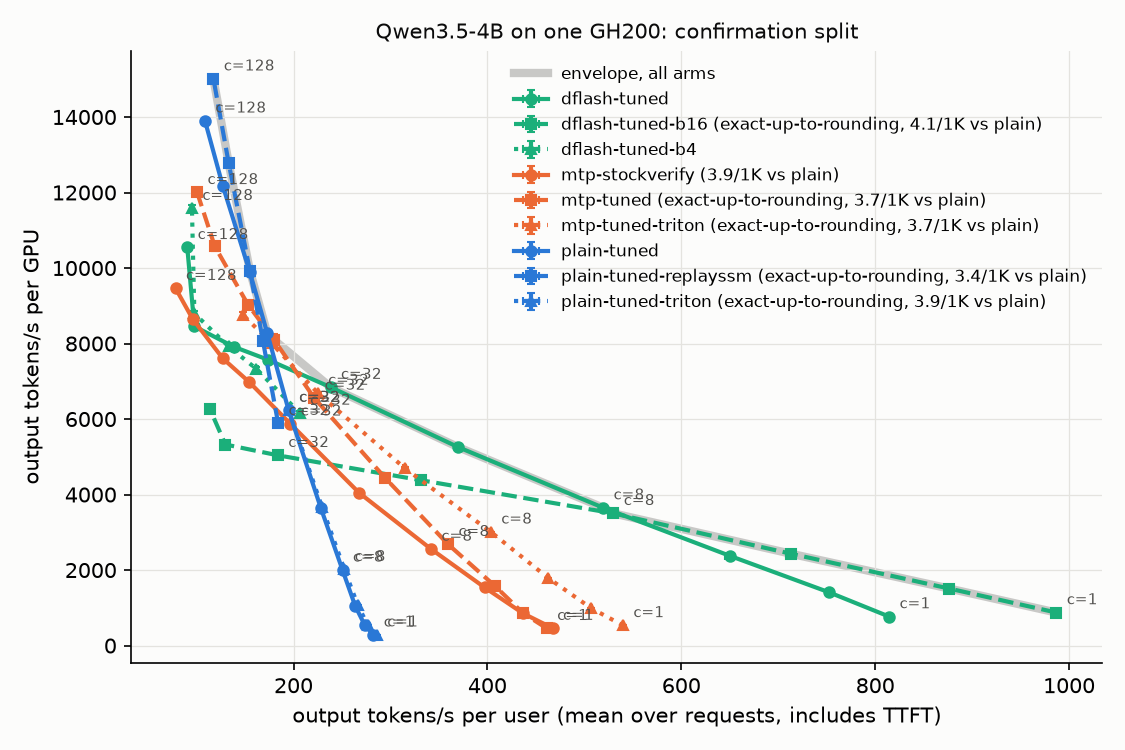
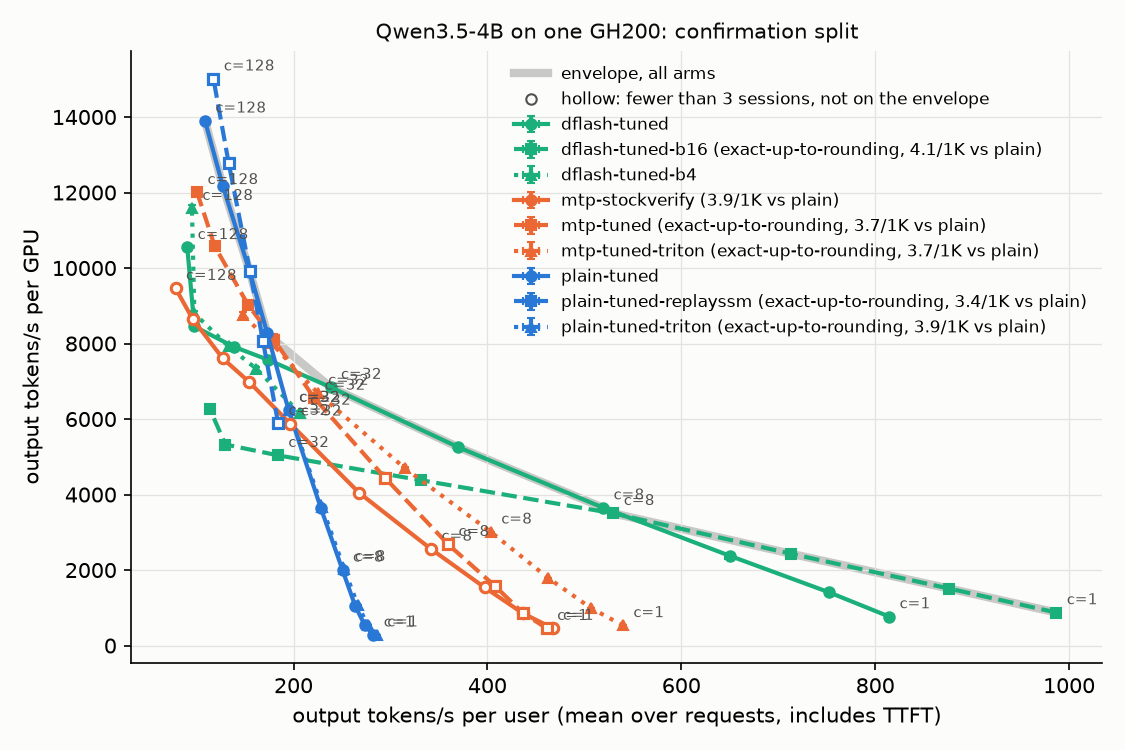
Keep single-session points off the confirmed frontier
Rebuilds evidence/bench/confirm with --envelope-min-n 3: plain-tuned is the
best arm at c=48-128, and buffered plain decoding (one session) is listed as
best_below_min_n and drawn hollow rather than ranked. The README calls it
level at c=64 and not a result until its two scheduled sessions land, and
corrects three summary numbers (foreign-load median 0.55, x CV maximum
1.95%, DFlash block 8 accept length 4.66-4.81). bench/README.md gains two
open items: the exactness check ignores --sglang-worktree, and the DFlash
dip at c=96.

diff --git a/evidence/bench/README.md b/evidence/bench/README.md
@@ -59,10 +59,11 @@ points, 4 are invalid, all `plain-tuned` in confirm-supp: c=2, 8, 16 and 32 at 3
 during the hold). They stay in `points.csv` with their reason and out of every mean and
 pair, so `mtp-stockverify` at those concurrencies, `mtp-tuned` at c=2, 8, 16 and
 `plain-tuned-replayssm` at c=32 have no paired baseline in that session. The valid
-points saw a median of 0.56 and at most 1.81 foreign cores.
+points saw a median of 0.55 and at most 1.81 foreign cores.
 
-**Frontier.** Best arm by mean y at each concurrency (`envelope.csv`), n = sessions with
-a valid point (`plain-tuned` also ran in confirm-supp):
+**Frontier.** Best arm by mean y at each concurrency among points with at least three
+valid sessions (`envelope.csv`; the build passes `--envelope-min-n 3`). n counts sessions
+with a valid point, so `plain-tuned`, which also ran in confirm-supp, has up to four:
 
 | c | Best arm (class) | y, tok/s (sd) | x, tok/s/user | n | `plain-tuned` y (sd) | Runner-up, y |
 |---|---|---|---|---|---|---|
@@ -73,15 +74,17 @@ a valid point (`plain-tuned` also ran in confirm-supp):
 | 16 | `dflash-tuned` (stock) | 5,256 (45) | 370 | 3 | 3,646 (5) | `mtp-tuned-triton` 4,704 |
 | 32 | `dflash-tuned` (stock) | 6,844 (22) | 238 | 3 | 6,233 (4) | `mtp-tuned-triton` 6,688 |
 | 48 | `plain-tuned` (stock) | 8,286 (4) | 173 | 4 | 8,286 (4) | `mtp-tuned` 8,091 |
-| 64 | `plain-tuned-replayssm` (exact-up-to-rounding) | 9,917 | 155 | 1 | 9,901 (7) | `plain-tuned` 9,901 |
-| 96 | `plain-tuned-replayssm` (exact-up-to-rounding) | 12,773 | 133 | 1 | 12,180 (18) | `plain-tuned` 12,180 |
-| 128 | `plain-tuned-replayssm` (exact-up-to-rounding) | 15,012 | 117 | 1 | 13,898 (13) | `plain-tuned` 13,898 |
+| 64 | `plain-tuned` (stock) | 9,901 (7) | 155 | 4 | 9,901 (7) | `mtp-tuned` 9,033 |
+| 96 | `plain-tuned` (stock) | 12,180 (18) | 127 | 4 | 12,180 (18) | `mtp-tuned` 10,573 |
+| 128 | `plain-tuned` (stock) | 13,898 (13) | 109 | 4 | 13,898 (13) | `mtp-tuned` 12,003 |
 
-Buffered plain decoding (`plain-tuned-replayssm`) leads at c >= 64 in its one session,
-by 0.2%, 4.9% and 8.1% over `plain-tuned` in the same hold. That is a single session:
-it entered the frontier only when the radix-off reference made it exact (equality/),
-and two more sessions are queued (confirm-supp2 and confirm-supp3). Until they land,
-the declared n=3 frontier at c >= 64 is `plain-tuned`.
+Points with fewer sessions do not rank. The one that would change this table is
+buffered plain decoding (`plain-tuned-replayssm`, one session): against `plain-tuned`
+in the same hold it is level at c=64 (+0.2%) and higher at c=96 and 128 (+4.9% and
++8.1%; 15,012 tok/s at c=128). `envelope.csv` lists it as `best_below_min_n` and
+`pareto.png` draws it hollow. It became eligible for the exact frontier only when the
+radix-off reference made it exact (equality/); two more sessions (confirm-supp2 and
+confirm-supp3) are scheduled, and until they land this is not a result.
 
 y in tok/s per arm (mean over sessions; n=3 unless marked):
 
@@ -98,8 +101,8 @@ y in tok/s per arm (mean over sessions; n=3 unless marked):
 | `dflash-tuned-b4` |  |  |  |  |  | 6,161 | 7,327 | 7,922 | 8,796 | 11,582 |
 
 **Variance across sessions.** Over the 52 arm-concurrency points with three sessions,
-the coefficient of variation of y has a median of 0.4% and a maximum of 1.9%
-(`mtp-tuned` at c=48 and `dflash-tuned-b16` at c=16); x varies by at most 1.9%. These
+the coefficient of variation of y has a median of 0.35% and a maximum of 1.9%
+(`mtp-tuned` at c=48 and `dflash-tuned-b16` at c=16); for x the maximum is 1.95%. These
 are three server launches at different times of day on one machine, not independent
 machines.
 
@@ -122,7 +125,8 @@ baseline (987 against 286 tok/s/user) and `dflash-tuned` 2.89 times `plain-tuned
 Speculation leads plain decoding through c=32 and trails it from c=48 in every family:
 at c=48 the best speculative arm (`mtp-tuned`) delivers 0.98 times plain, and at c=128
 the best (`mtp-tuned`) 0.86 times. Acceptance does not explain the loss: accept length
-is flat across concurrency (3.24-3.28 for MTP, 4.67-4.81 for DFlash block 8). These
+is flat across concurrency (3.24-3.28 for MTP, 4.66-4.81 for DFlash block 8 over all
+points). These
 runs do not say where the cycle's time goes at large batch; evidence/profiles/
 attributes it by component.
 
@@ -145,7 +149,8 @@ attributes it by component.
 `frontier.csv` has per-arm means, standard deviations and ranges of x, y, y_steady,
 TTFT, ITL, accept length and the server's full-batch rate; `<arm>.dat` and
 `envelope-*.dat` are PGFPlots tables; `pareto.png` plots every arm (hue by family,
-line style by variant) with the envelope.
+line style by variant) with the envelope, and draws points with fewer than three
+sessions hollow.
 
 ```sh
 scripts/gpu_lock.sh -x bench/campaigns/confirm.sh 0 all          # confirm-r0

diff --git a/bench/README.md b/bench/README.md
@@ -277,3 +277,8 @@ once it is a result.
 - `SGLANG_RUST_SERVER=1` (SGLang's embedded Rust HTTP server, an alternative to the
   Python tokenizer manager) fails at launch here because it wants a local
   `tokenizer.json` path rather than a Hub model ID; untested with `--tokenizer-path`.
+- The exactness check reads an arm's flags, environment and model only. An arm run with
+  `--sglang-worktree` on a patched SGLang tree keeps the class its flags give it; such
+  an arm needs an `exactness_note` citing the patch's own equality evidence.
+- Both FlashInfer DFlash arms lose ground to plain decoding at c=96 and recover at
+  c=128 (evidence/bench/README.md, confirm/); not explained.
